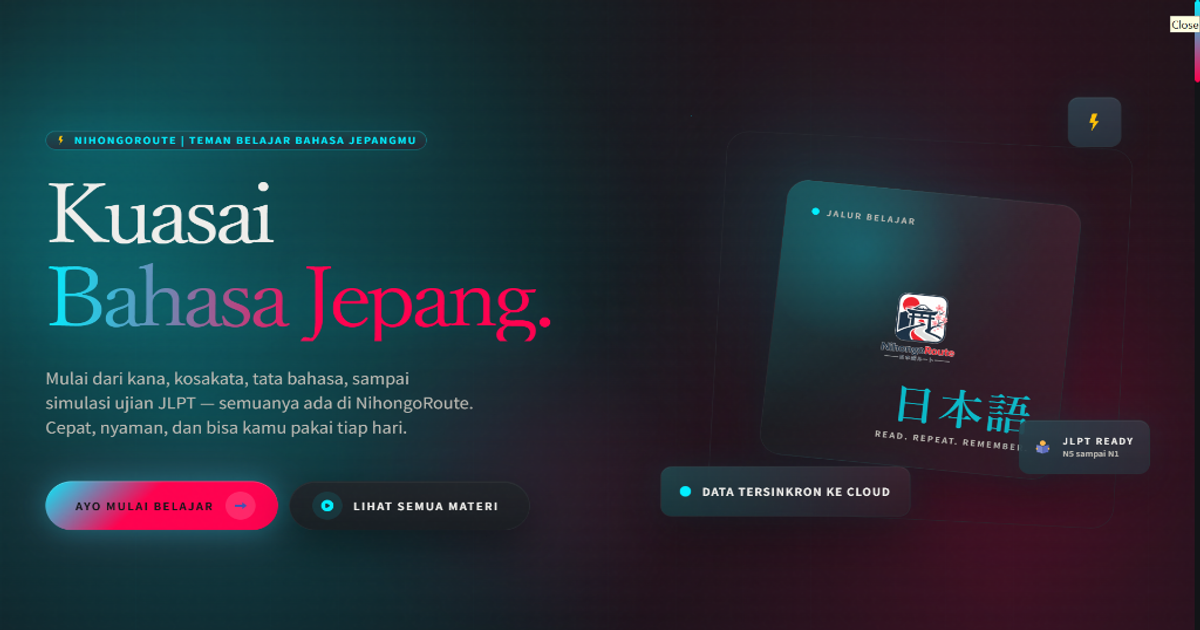
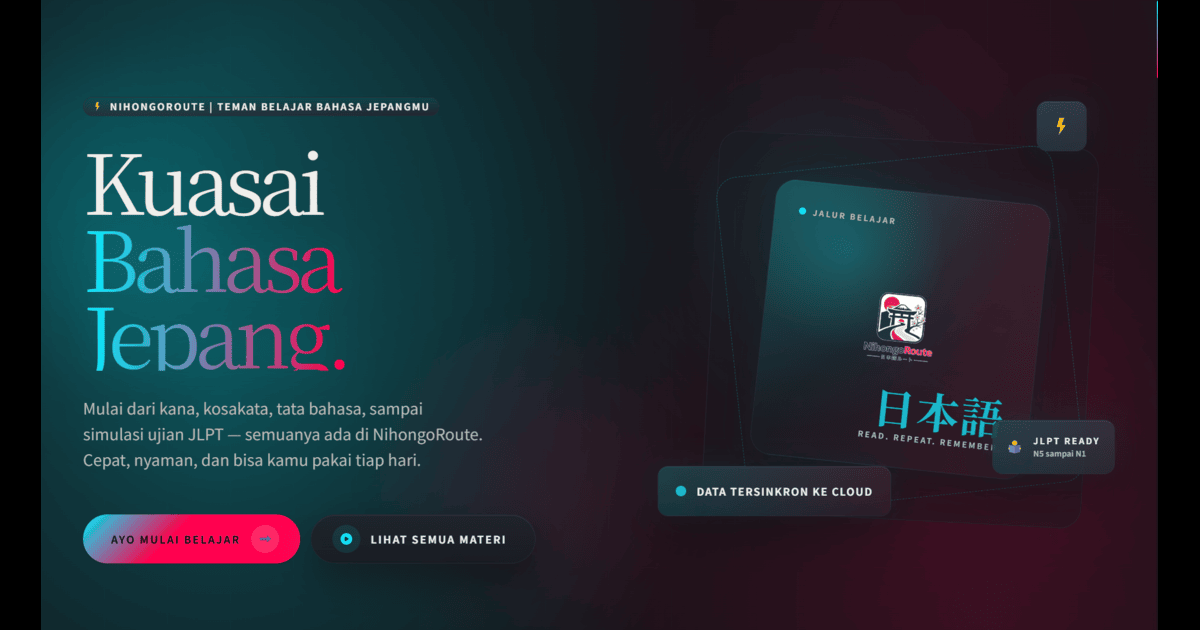
feat: add script for Gemini-powered Kanji enrichment, TTS generation, and OpenGraph assets

diff --git a/scripts/tts/clean_tts_cache.js b/scripts/tts/clean_tts_cache.js
@@ -12,7 +12,6 @@ const fs = require("node:fs");
 const path = require("node:path");
 const process = require("node:process");
 const { createClient } = require("@supabase/supabase-js");
-const { createClient: createSanityClient } = require("@sanity/client");
 
 // ==========================================
 // VOICE RESOLUTION UTILITIES (Mirrors src/lib/tts.ts)
@@ -175,12 +174,7 @@ async function cleanTtsCache() {
   }
 
   const supabase = createClient(supabaseUrl, supabaseServiceKey);
-  const sanityClient = createSanityClient({
-    projectId: process.env.NEXT_PUBLIC_SANITY_PROJECT_ID,
-    dataset: process.env.NEXT_PUBLIC_SANITY_DATASET,
-    useCdn: false,
-    apiVersion: "2024-03-11",
-  });
+ 
 
   console.log("🔌 [Supabase] Menghubungkan ke database...");
   if (dryRun) {
@@ -268,27 +262,7 @@ async function cleanTtsCache() {
     }
 
 
-    // 4. Tarik listeningMaterial dari Sanity CMS
-    try {
-      console.log("🔍 [Listening - Sanity] Menarik data listeningMaterial...");
-      const listeningMaterials = await sanityClient.fetch(`*[_type == "listeningMaterial"] { body }`);
-      if (Array.isArray(listeningMaterials)) {
-        listeningMaterials.forEach((row) => {
-          if (!row.body) return;
-          const lines = row.body.split("\n").filter(Boolean);
-          lines.forEach((line, i) => {
-            const parts = line.split(/[：:]/);
-            const rawSpeaker = parts.length > 1 ? parts[0].trim() : undefined;
-            const lineText = parts.length > 1 ? parts.slice(1).join("：").trim() : line.trim();
-            const voice = detectVoice(rawSpeaker, i);
-            addActive(lineText, voice);
-          });
-        });
-        console.log(`   └─ Selesai memproses ${listeningMaterials.length} materi listening.`);
-      }
-    } catch (err) {
-      console.warn("⚠  [Sanity] Gagal menarik data listening dari Sanity:", err.message);
-    }
+ 
 
     // 5. Tarik data tts_cache dari Supabase (Paginated)
     console.log("🔍 [Cache] Menarik data dari tabel tts_cache...");

diff --git a/scripts/tts/generate_dialogue_tts_direct.js b/scripts/tts/generate_dialogue_tts_direct.js
@@ -94,6 +94,7 @@ const SPEAKER_MAP = {
   "アンディ": "andi",
   "インダ": "indah",
   "キムラ": "kimura",
+  "木村": "kimura",
   "コバヤシ": "kobayashi",
   "サクラ": "sakura",
   "サト": "sato",
@@ -462,8 +463,8 @@ function getGeminiModels() {
     // punya limitasi resmi "voice tidak konsisten dengan prompt" (lihat
     // dokumentasi Gemini TTS). 3.1 tetap ada sebagai fallback terakhir.
     models.push(
-      "gemini-2.5-flash-preview-tts",
       "gemini-3.1-flash-tts-preview",
+      "gemini-2.5-flash-preview-tts",
     );
   }
   return Array.from(new Set(models)).filter(Boolean);
